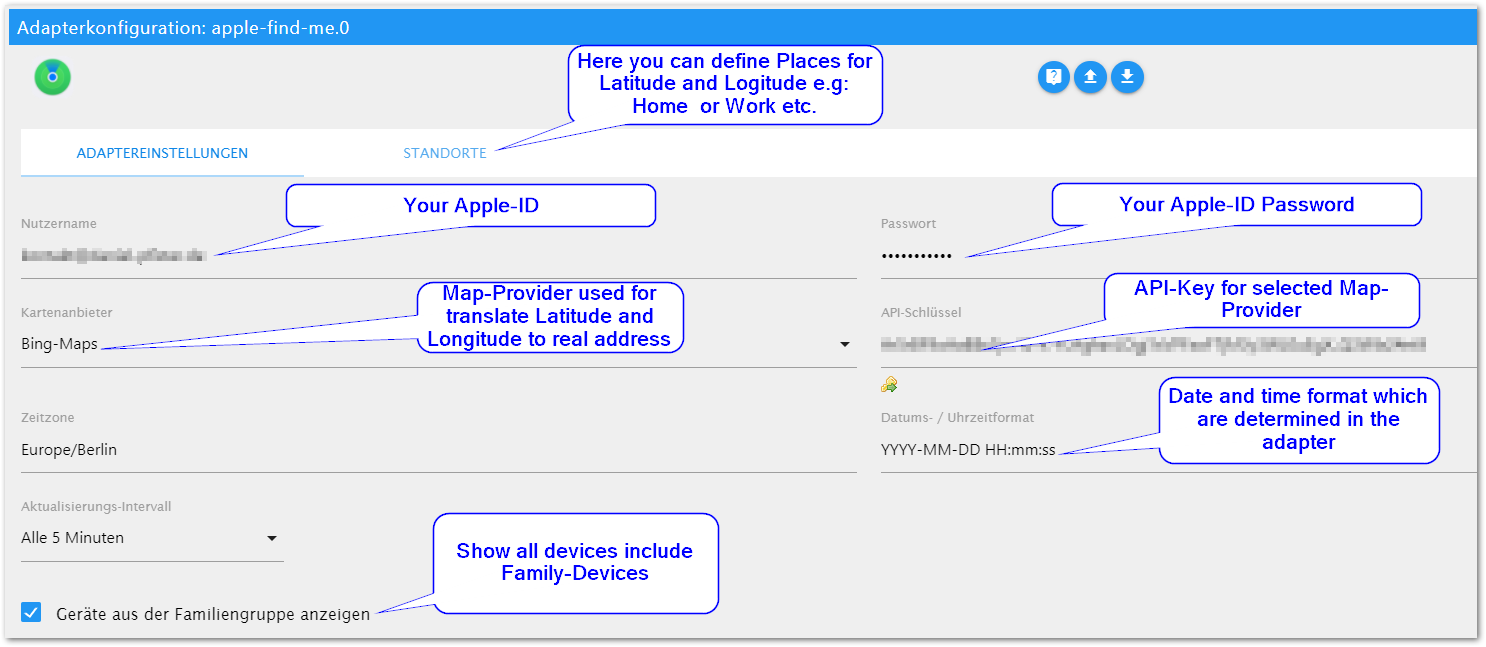
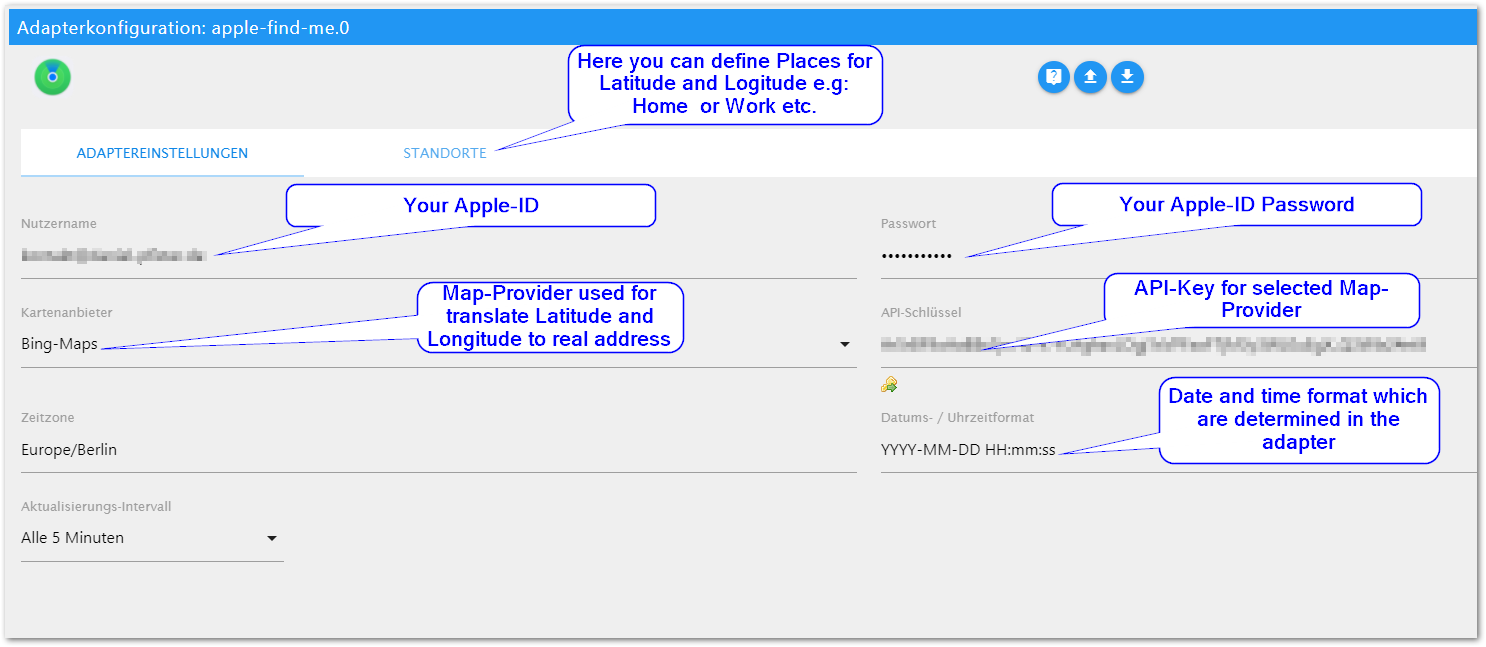
Change Readme.md and Config.png

Changed region(s): [[0.0, 0.9274, 0.4953, 0.9583], [0.3096, 0.8346, 0.4643, 0.8964], [0.3096, 0.7728, 0.4643, 0.8037]]

diff --git a/README.md b/README.md
@@ -10,7 +10,7 @@
 
 Apple Find Me Connector is a ioBroker-Adapter to get the current locations and other metrics of connected Apple devices.
 
-It work's without 2-Factor-Authentication (2FA) and retrive all connected devices include family devices.
+It work's without 2-Factor-Authentication (2FA) and retrive all connected devices.
 
 ## Configuration
 ![ConfigImage](https://raw.githubusercontent.com/PfisterDaniel/iobroker.apple-find-me/master/images/config.png)
@@ -33,6 +33,7 @@ Used Library [MomentJs](https://momentjs.com/timezone)
 
 ### 0.0.4
 * Bugfix with Time-Format in the Objectlist (Set default rule from value.time to text)
+* Family-Devices not longer working
 
 ### 0.0.3
 * Add Timezone and Time-Formats
